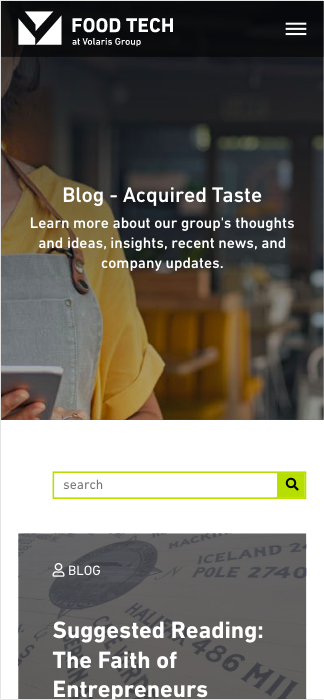
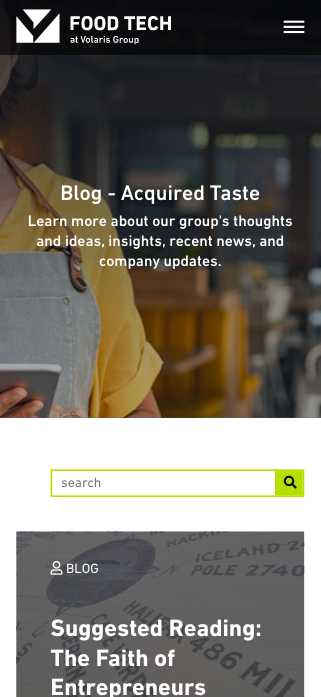
Populated Volaris Food Tech project page.

diff --git a/css/blog.css b/css/blog.css
@@ -1,21 +1,21 @@
 /*
 Error: Undefined variable: "$purple-light".
-        on line 86 of /Users/georgiabains/Sites/portfolio_new/sass/blog.scss
+        on line 75 of /Users/georgiabains/Sites/portfolio_new/sass/blog.scss
 
-81:             }
-82:         }
-83:         .blog-info {
-84:             margin: 40px 0;
-85:             padding: 0 0 20px;
-86:             border-bottom: 1px solid $purple-light;
-87:             .date {
-88:                 margin: 0;
-89:                 font-size: 0.9em;
-90:             }
-91:         }
+70:             }
+71:         }
+72:         .blog-info {
+73:             margin: 40px 0;
+74:             padding: 0 0 20px;
+75:             border-bottom: 1px solid $purple-light;
+76:             .date {
+77:                 margin: 0;
+78:                 font-size: 0.9em;
+79:             }
+80:         }
 
 Backtrace:
-/Users/georgiabains/Sites/portfolio_new/sass/blog.scss:86
+/Users/georgiabains/Sites/portfolio_new/sass/blog.scss:75
 /Applications/Koala.app/Contents/Resources/app.nw/rubygems/gems/sass-3.5.2/lib/sass/script/tree/variable.rb:49:in `_perform'
 /Applications/Koala.app/Contents/Resources/app.nw/rubygems/gems/sass-3.5.2/lib/sass/script/tree/node.rb:50:in `perform'
 /Applications/Koala.app/Contents/Resources/app.nw/rubygems/gems/sass-3.5.2/lib/sass/script/tree/list_literal.rb:75:in `block in _perform'
@@ -88,4 +88,4 @@ Backtrace:
 body:before {
   white-space: pre;
   font-family: monospace;
-  content: "Error: Undefined variable: \"$purple-light\".\A         on line 86 of /Users/georgiabains/Sites/portfolio_new/sass/blog.scss\A \A 81:             }\A 82:         }\A 83:         .blog-info {\A 84:             margin: 40px 0;\A 85:             padding: 0 0 20px;\A 86:             border-bottom: 1px solid $purple-light;\A 87:             .date {\A 88:                 margin: 0;\A 89:                 font-size: 0.9em;\A 90:             }\A 91:         }"; }
+  content: "Error: Undefined variable: \"$purple-light\".\A         on line 75 of /Users/georgiabains/Sites/portfolio_new/sass/blog.scss\A \A 70:             }\A 71:         }\A 72:         .blog-info {\A 73:             margin: 40px 0;\A 74:             padding: 0 0 20px;\A 75:             border-bottom: 1px solid $purple-light;\A 76:             .date {\A 77:                 margin: 0;\A 78:                 font-size: 0.9em;\A 79:             }\A 80:         }"; }

diff --git a/css/styles.css b/css/styles.css
@@ -861,6 +861,7 @@ section.project-page-details {
     section.project-page-details .image-collage img,
     section.project-page-details .image-collage video {
       width: 260px;
+      height: 560px;
       position: absolute;
       display: inline-block; }
       section.project-page-details .image-collage img.top-left,
@@ -950,10 +951,6 @@ main section.about {
   main section.about .about-content {
     margin-top: 20px;
     max-width: 600px; }
-
-footer .footer-content .footer-copyright p {
-  bottom: 20px;
-  position: fixed; }
 
 .blog {
   min-height: calc(100vh - 200px);

diff --git a/sass/blog.scss b/sass/blog.scss
@@ -1,14 +1,3 @@
-footer {
-    .footer-content {
-        .footer-copyright {
-            p {
-                bottom: 20px;
-                position: fixed;
-            }
-        }
-    }
-}
-
 .blog {
     min-height: calc(100vh - 200px);
     display: flex;

diff --git a/sass/project_page_single.scss b/sass/project_page_single.scss
@@ -127,6 +127,7 @@ section.project-page-details {
 		img,
 		video {
 			width: 260px;
+			height: 560px;
 			position: absolute;
 			display: inline-block;
 			&.top-left {

diff --git a/project/foodtech.php b/project/foodtech.php
@@ -27,7 +27,7 @@
         <div class="project-basic-info">
             <div class="info-column">
                 <h4>year</h4>
-                <p>2021</p>
+                <p>2020</p>
             </div>
             <div class="info-column">
                 <h4>role</h4>
@@ -40,39 +40,21 @@
         </div>
 
         <figure>
-            <img src="../img/projects/foodtech/">
-            <figcaption>Lorem ipsum.</figcaption>
+            <img src="../img/projects/foodtech/foodtech_mockup_one.png">
+            <figcaption>A mockup of the home page displayed on a MacBook Pro and iPhone 12.</figcaption>
         </figure>
 
-        <p class="description">Lorem ipsum.</p>
+        <p class="description">Volaris Food Tech is the website for the recently developed vertical: Food Tech. This website was created in conjunction with the Senior Web Developer, based on mockups from the Senior Graphic Designer. I was responsible for developing the site locally (using MAMP architecture), and for creating and populating the CMS entries.</p>
 
         <figure class="image-collage">
-            <img class="top-left" src="../img/projects/foodtech/">
-            <img class="main-image" src="../img/projects/foodtech/">
-            <img class="bottom-right" src="../img/projects/foodtech/">
-            <figcaption>Lorem ipsum.</figcaption>
+            <img class="top-left" src="../img/projects/foodtech/foodtech_mobile_two.png">
+            <img class="main-image" src="../img/projects/foodtech/foodtech_mobile_one.gif">
+            <img class="bottom-right" src="../img/projects/foodtech/foodtech_mobile_three.png">
+            <figcaption>Two screenshots of a Your Role page and the Blog page, and one GIF showing the hamburger menu on the Resources page. iPhone X (375 x 812px) resolution.</figcaption>
         </figure>
 
         <p class="description">
-            Lorem ipsum.
-        </p>
-
-        <figure>
-            <img src="../img/projects/foodtech/">
-            <figcaption>Lorem ipsum.</figcaption>
-        </figure>
-
-        <p class="description">
-            Lorem ipsum.
-        </p>
-
-        <figure>
-            <img src="../img/projects/foodtech/">
-            <figcaption>Lorem ipsum.</figcaption>
-        </figure>
-
-        <p class="description">
-            Lorem ipsum <code>code test</code>.
+            The stakeholders for this site envisioned multiple animations, which I implemented using <a href="https://michalsnik.github.io/aos/" target="_blank">Michał Sajnóg's Animate On Scroll library</a>. The animations paired with the green and blue colour scheme ultimately create a clean and fresh experience for the user.
         </p>
 
         <figure>

diff --git a/_footer.php b/_footer.php
@@ -2,7 +2,7 @@
 
 	<div class="footer-content">
 		<div class="footer-copyright">
-    		<p>&copy; Georgia Bains 2020</p>
+    		<p>&copy; Georgia Bains 2021</p>
     	</div>
     	<div class="footer-on-scroll">
     		<ul>
